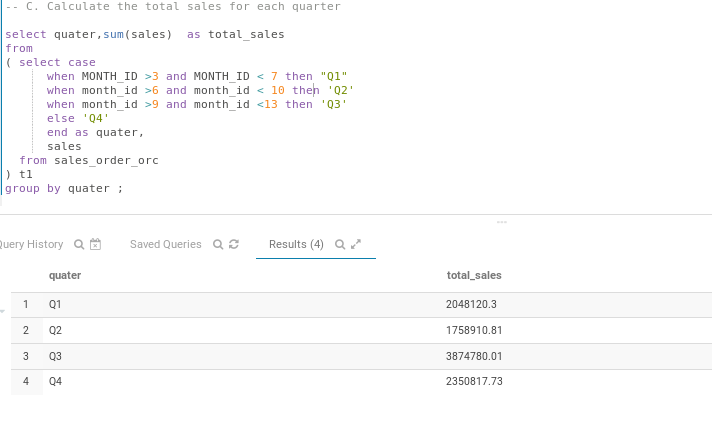
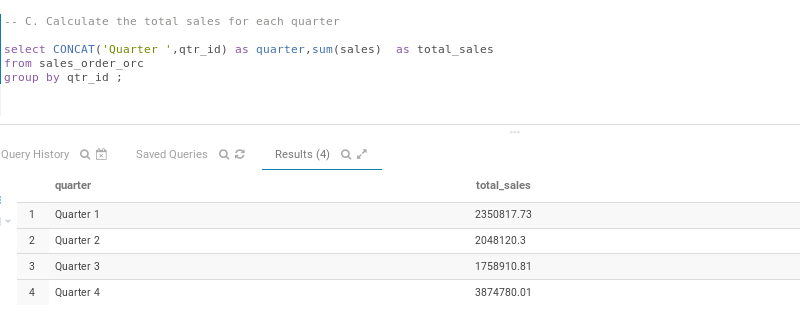
image updates

diff --git a/assignments/assignment_1_sales_order_data/README.md b/assignments/assignment_1_sales_order_data/README.md
@@ -170,18 +170,10 @@ C. Calculate the total sales for each quarter
 
 
 ```
-select quarter,sum(sales)  as total_sales
-from 
-( select case
-      when MONTH_ID >3 and MONTH_ID < 7 then "Q1"
-      when month_id >6 and month_id < 10 then 'Q2'
-      when month_id >9 and month_id <13 then 'Q3'
-      else 'Q4' 
-      end as quarter,
-      sales
-  from sales_order_orc
-) t1 
-group by quarter ;
+select CONCAT('Quarter ',qtr_id) as quarter,
+       sum(sales) as total_sales
+from sales_order_orc
+group by qtr_id ; 
 ```
 -> <b>Totla quarterly sales is shown below</b>
 
@@ -190,18 +182,10 @@ group by quarter ;
 D. In which quarter sales was minimum </br>
 
 ```
-select quarter,sum(sales)  as total_sales
-from 
-( select case
-      when MONTH_ID >3 and MONTH_ID < 7 then "Q1"
-      when month_id >6 and month_id < 10 then 'Q2'
-      when month_id >9 and month_id <13 then 'Q3'
-      else 'Q4' 
-      end as quarter,
-      sales
-  from sales_order_orc
-) t1 
-group by quarter
+select CONCAT('Quarter ',qtr_id) AS min_sales_quarter ,
+       sum(sales)  AS total_sales
+from sales_order_orc
+group by qtr_id
 order by total_sales  
 limit 1;
 ```
@@ -234,19 +218,11 @@ order by total_sales desc limit 1 ;
 
 F. Calculate quartelry sales for each city
 ```
-select city,quarter,sum(sales) as total_sales
-from 
-( select city, case
-      when MONTH_ID >3 and MONTH_ID < 7 then "Q1"
-      when month_id >6 and month_id < 10 then 'Q2'
-      when month_id >9 and month_id <13 then 'Q3'
-      else 'Q4' 
-      end as quarter,
-      sales
-  from sales_order_orc
-) t1 
-group by city,quarter
-order by city,quarter;
+select  city,CONCAT('Quarter ',qtr_id) as Quarter,
+        sum(sales) as total_sales
+from  sales_order_orc 
+group by city,qtr_id
+order by city,Quarter;
 
 ```
 -> <b>quartelry sales for each city is shown below </b>
